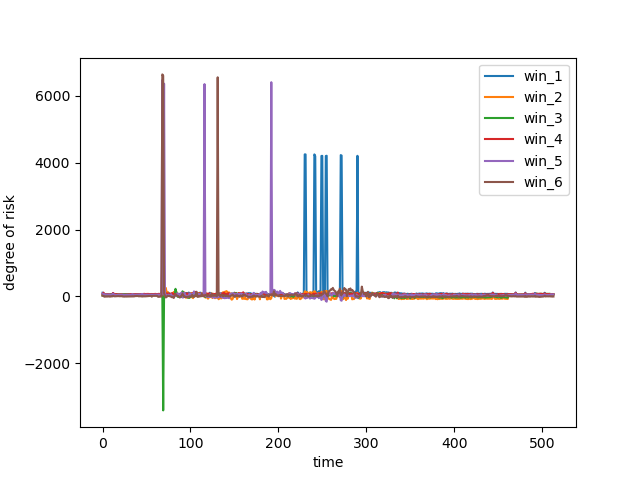
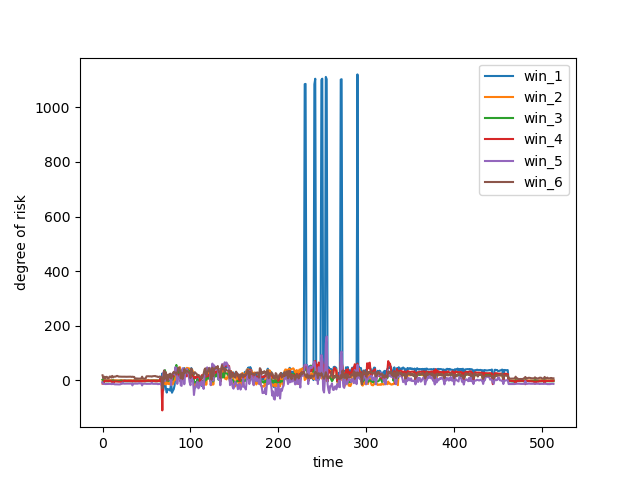
gensen-simasita

diff --git a/spm/c_spm2/cb_spm2_learn/cbzz_memo.py b/spm/c_spm2/cb_spm2_learn/cbzz_memo.py
@@ -67,7 +67,7 @@ class Learn():
         self.fps = fps
         self.data_list_all_win=data_list_all_win
         self.label_list_all_win=label_list_all_win
-        print(data_list_all_win.shape)#(win,pic_num,feature)=(6,886,30)
+        # print(data_list_all_win.shape)#(win,pic_num,feature)=(6,886,30)
         if stack_info==None:
             self.stack_appear = stack_appear
             self.stack_disappear = stack_disappear
@@ -76,7 +76,7 @@ class Learn():
             self.stack_info=np.zeros((self.data_list_all_win.shape[0],2))
             self.stack_info[:,0]=int(self.stack_appear_frame)
             self.stack_info[:,1]=int(self.stack_disappear_frame)
-            pprint(self.stack_info)
+            # pprint(self.stack_info)
         else:
             self.stack_info=stack_info*self.fps
             pass
@@ -99,9 +99,9 @@ class Learn():
             self.scaler_master[win_no]=self.standardization_master[win_no].fit(train_X)
             train_X=self.scaler_master[win_no].transform(train_X)
             train_y = np.zeros((train_X.shape[0], 1))
-            print(self.stack_info[win_no][0])
+            # print(self.stack_info[win_no][0])
             train_y[int(self.stack_info[win_no][0]):int(self.stack_info[win_no][1])] = 100
-            print(train_X.shape, train_y.shape)
+            # print(train_X.shape, train_y.shape)
             self.model_master[win_no].fit(train_X, train_y)
             pass
         pass
@@ -111,10 +111,11 @@ class Learn():
 
 
 class Evaluate():
-    def __init__(self,model_master,test_data_list_all_win,scaler_master,test_code):
+    def __init__(self,model_master,test_data_list_all_win,scaler_master,train_code,test_code):
         self.model_master=model_master
         self.test_data_list_all_win=test_data_list_all_win
         self.scaler_master=scaler_master
+        self.train_code=train_code
         self.test_code=test_code
         if len(self.model_master)!=len(self.test_data_list_all_win):
             print("学習済みモデルのウィンドウ数と、テストデータのウィンドウ数が一致しません")
@@ -124,17 +125,17 @@ class Evaluate():
 
 
     def test(self):
-        print(self.test_data_list_all_win)
+        # print(self.test_data_list_all_win)
         self.score_master=[]
         for win_no in range(np.array(self.test_data_list_all_win).shape[0]):
             self.score_master.append([])
         for test_no in range(np.array(self.test_data_list_all_win).shape[1]):
             for win_no, win in enumerate(self.test_data_list_all_win):
                 test_X = win[test_no]
-                print(f"test_X win_no\n: {win_no}",test_X)
+                # print(f"test_X win_no\n: {win_no}",test_X)
                 test_X=self.scaler_master[win_no].transform(test_X.reshape(1, -1))
                 score = self.model_master[win_no].predict(test_X.reshape(1, -1))
-                print(score)
+                # print(score)
                 self.score_master[win_no].append(score)
                 pass
         # pprint(self.score_master[0])
@@ -145,7 +146,7 @@ class Evaluate():
         plt.xlabel("time")
         plt.ylabel("degree of risk")
         plt.legend()
-        plt.savefig(f"c_spm2/cc_spm2_after/cca_output_of_spm2/ccai{self.test_code}_L-bcci_P-bcc{self.test_code}.png")
+        plt.savefig(f"c_spm2/cc_spm2_after/cca_output_of_spm2/cca{self.train_code}{self.test_code}_L-bcc{self.train_code}_P-bcc{self.test_code}.png")
         plt.cla()
         # plt.show()
 
@@ -153,45 +154,56 @@ class Evaluate():
 
 
 # wolvez2022/spmで実行してください
-spm_path = os.getcwd()
-train_files = sorted(glob.glob(spm_path+"/b_spm1/b-data/bcca_secondinput/bcci/*"))
+# train_codes=['a','b','c','d','e','f','g','h','i']
+# test_codes=['a','b','c','d','e','f','g','h','i']
+# stack_starts=[0.,0.,9.,20.,11.,4.,35.,58.,10.,]#bそもそもスタートがスタック,g白砂利道,hスタック以外の原因で修理・パソコン映り込みも,iスタック以外の原因で停止は学習データ自体が悪い
+# stack_ends=[4.,5.,16.,24.,13.,6.,36.,120.,11.,]
+train_codes=['a','c','d','e','f']
+test_codes=['a','c','d','e','f']
+stack_starts=[0.,9.,20.,11.,4.]#bそもそもスタートがスタック,g白砂利道,hスタック以外の原因で修理・パソコン映り込みも,iスタック以外の原因で停止は学習データ自体が悪い
+stack_ends=[4.,16.,24.,13.,6.]
 
-seq1=Open_npz(train_files)
-data_list_all_win,label_list_all_win=seq1.get_data()
+for train_code in train_codes:
+    print("train data mov code : ",train_code)
+    spm_path = os.getcwd()
+    train_files = sorted(glob.glob(spm_path+f"/b_spm1/b-data/bcca_secondinput/bcc{train_code}/*"))
 
-stack_info=np.array([[12., 18.],
-       [12., 18.],
-       [12., 18.],
-       [12., 18.],
-       [12., 18.],
-       [12, 18.]])
-"""
-「stackした」と学習させるフレームの指定方法
-1. 全ウィンドウで一斉にラベリングする場合
-    Learnの引数でstack_appearおよびstack_disappearを[s]で指定する。
-2. ウィンドウごとに個別にラベリングする場合
-stack_info=np.array(
-    [
-        [win_1_stack_start,win_1_stack_end],
-        [win_2_stack_start,win_2_stack_end],
-        ...
-        [win_6_stack_start,win_6_stack_end],
-    ]
-)
-t[s]で入力すること。
-"""
-seq2=Learn(data_list_all_win,label_list_all_win,fps=30,stack_appear=5,stack_disappear=6,stack_info=None)
-#seq2=Learn(data_list_all_win,label_list_all_win,fps=30,stack_info=stack_info)
-model_master,label_list_all_win,scaler_master=seq2.get_data()
+    seq1=Open_npz(train_files)
+    data_list_all_win,label_list_all_win=seq1.get_data()
 
-spm_path = os.getcwd()
-test_codes=['a','b','c','d','e','f','g','h','i']
-for test_code in test_codes:
-    test_files = sorted(glob.glob(spm_path+f"/b_spm1/b-data/bcca_secondinput/bcc{test_code}/*"))
+    """
+    stack_info=np.array([[12., 18.],
+        [12., 18.],
+        [12., 18.],
+        [12., 18.],
+        [12., 18.],
+        [12, 18.]])
+    「stackした」と学習させるフレームの指定方法
+    1. 全ウィンドウで一斉にラベリングする場合
+        Learnの引数でstack_appearおよびstack_disappearを[s]で指定する。
+    2. ウィンドウごとに個別にラベリングする場合
+    stack_info=np.array(
+        [
+            [win_1_stack_start,win_1_stack_end],
+            [win_2_stack_start,win_2_stack_end],
+            ...
+            [win_6_stack_start,win_6_stack_end],
+        ]
+    )
+    t[s]で入力すること。
+    """
+    seq2=Learn(data_list_all_win,label_list_all_win,fps=30,stack_appear=5,stack_disappear=6,stack_info=None)
+    #seq2=Learn(data_list_all_win,label_list_all_win,fps=30,stack_info=stack_info)
+    model_master,label_list_all_win,scaler_master=seq2.get_data()
 
-    seq3=Open_npz(test_files)
-    test_data_list_all_win,test_label_list_all_win=seq3.get_data()
+    spm_path = os.getcwd()
+    for test_code in test_codes:
+        print('test data mov code : ',test_code)
+        test_files = sorted(glob.glob(spm_path+f"/b_spm1/b-data/bcca_secondinput/bcc{test_code}/*"))
 
-    seq4=Evaluate(model_master,test_data_list_all_win,scaler_master,test_code)
-    del seq3
-    del seq4
+        seq3=Open_npz(test_files)
+        test_data_list_all_win,test_label_list_all_win=seq3.get_data()
+
+        seq4=Evaluate(model_master,test_data_list_all_win,scaler_master,train_code,test_code)
+        del seq3
+        del seq4
